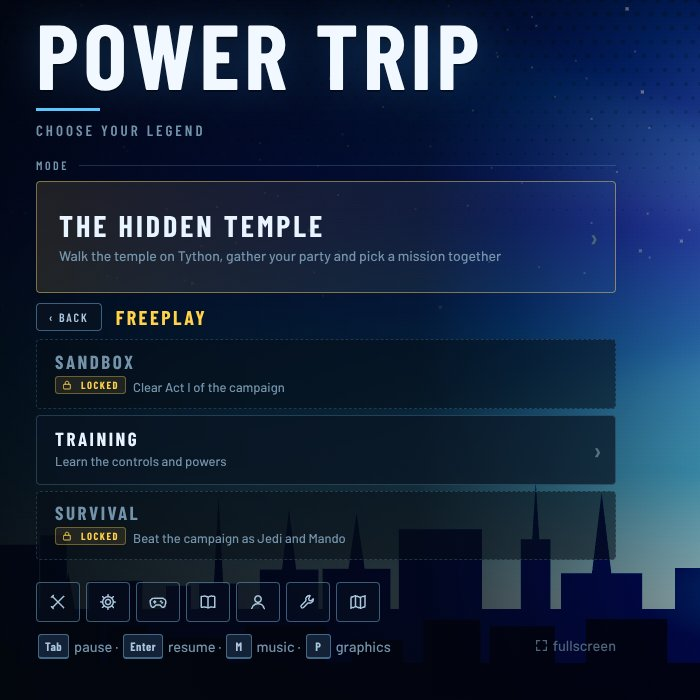
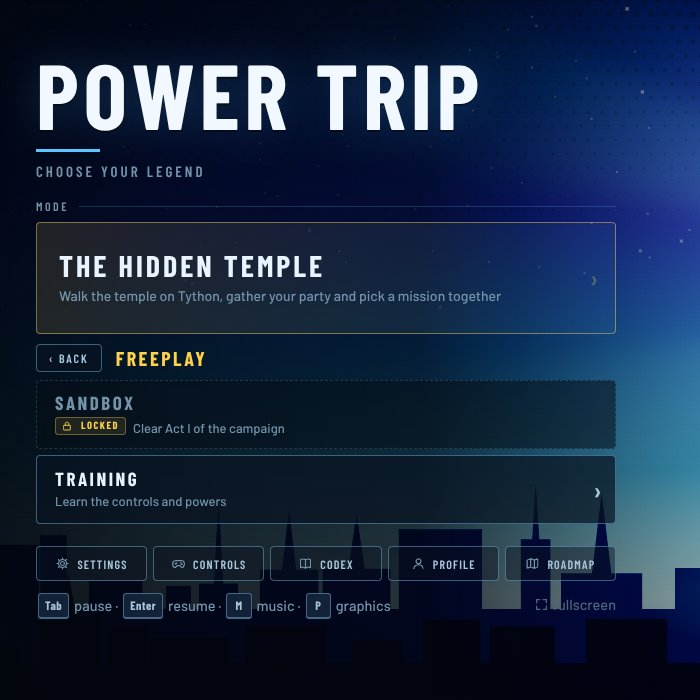
Title screen: STORY, ARCADE, FREEPLAY, ONLINE under the temple; the quiet row named [preview]
ARCADE is its own entry with ARCADE MISSIONS (the Missions page showing only the board of random contracts) and
SURVIVAL; FREEPLAY keeps SANDBOX and TRAINING; the story Missions page drops the arcade shelf. The quiet row on the
title screen is SETTINGS, CONTROLS, CODEX, PROFILE and ROADMAP with an icon beside each name; MASTERY and the
SABER bench leave it (the pause screen, the customizer and the temple still have them).

Claude-Session: https://claude.ai/code/session_01GXE5t33v9AnofAoJem4uvT

diff --git a/src/ui/menus.js b/src/ui/menus.js
@@ -109,25 +109,30 @@ export function showMenuStep(step, group = null){
   if (_ovState === 'menu'){ setOverlayState('menu'); overlay.scrollTop = 0; }   // the headline and BEGIN follow the step
   else refreshPicks();   // (the results screen's CHANGE panel stays where it is)
 }
-/* THE MODE GROUPS — the first step is the temple on top and three groups under it: STORY (campaign, missions),
-   FREEPLAY (sandbox, training, survival) and ONLINE (the co-op tile, which opens its panel). STORY and FREEPLAY swap
-   their short list in for the three; ‹ BACK, Esc or the pad's B closes it again. The hero step's ‹ MODES comes back
+/* THE MODE GROUPS — the first step is the temple on top and four entries under it: STORY (campaign, missions),
+   ARCADE (arcade missions: the Missions page's board of random contracts; survival), FREEPLAY (sandbox, training)
+   and ONLINE (the co-op tile, which opens its panel). The first three swap their short list in for the four; ‹ BACK, Esc or the pad's B closes it again. The hero step's ‹ MODES comes back
    to the list its mode was picked from. */
 let _group = null;
-const GROUP_OF = { campaign: 'story', mission: 'story', sandbox: 'freeplay', training: 'freeplay', endless: 'freeplay' };
+const GROUPS = ['story', 'arcade', 'freeplay'];
+const GROUP_OF = { campaign: 'story', mission: 'story', endless: 'arcade', sandbox: 'freeplay', training: 'freeplay' };
+const groupOf = (m) => m === 'mission' && isArcadeId(G.missionId) ? 'arcade' : GROUP_OF[m];
 export const menuGroup = () => _group;
 function openGroup(g){
-  _group = g === 'story' || g === 'freeplay' ? g : null;
+  _group = GROUPS.includes(g) ? g : null;
   overlay.classList.toggle('mgrp', !!_group);
-  for (const k of ['story', 'freeplay']) overlay.classList.toggle('grp-' + k, _group === k);
+  for (const k of GROUPS) overlay.classList.toggle('grp-' + k, _group === k);
 }
 function refreshGroups(){
-  for (const k of ['story', 'freeplay']) document.getElementById('grp-' + k).classList.toggle('sel', GROUP_OF[G.modeSel] === k);
+  const arc = G.modeSel === 'mission' && isArcadeId(G.missionId);
+  for (const k of GROUPS) document.getElementById('grp-' + k).classList.toggle('sel', groupOf(G.modeSel) === k);
+  document.getElementById('mode-arcade').classList.toggle('sel', arc);
+  document.getElementById('mode-mission').classList.toggle('sel', G.modeSel === 'mission' && !arc);
   // STORY carries where the campaign stands, so a saved run reads from the top level
   const md = document.getElementById('grpStoryMd');
   if (md) md.textContent = canResume() ? 'Continue · ' + resumeProgress() + ' · ' + resumeLabel().replace(/^CHAPTER \d+ · /, '') : 'Campaign and missions';
 }
-for (const k of ['story', 'freeplay']) document.getElementById('grp-' + k).addEventListener('click', (e) => { e.stopPropagation(); audioInit(); openGroup(k); });
+for (const k of GROUPS) document.getElementById('grp-' + k).addEventListener('click', (e) => { e.stopPropagation(); audioInit(); openGroup(k); });
 for (const b of document.querySelectorAll('.msub-back')) b.addEventListener('click', (e) => { e.stopPropagation(); audioInit(); openGroup(null); });
 // Esc (the pad's B) closes an open group first. Capture phase, registered ahead of the CHANGE panel's own Esc below
 window.addEventListener('keydown', (e) => {
@@ -135,8 +140,8 @@ window.addEventListener('keydown', (e) => {
   if (/\b(customizing|mpage|confirming|newconfirming|asktrain)\b/.test(overlay.className)) return;
   e.stopImmediatePropagation(); openGroup(null);
 }, true);
-/* the quiet row's buttons (settings, controls, codex...) wear an icon on the title screen, their name a tip over it
-   (styles/menus.css); the pause screen keeps their words */
+/* the quiet row's buttons (settings, controls, codex, profile, roadmap) wear an icon beside their name on the title
+   screen (styles/menus.css); the pause screen keeps just the words */
 const BTN_ICON = { formsBtn: 'sabers', settoggle: 'gear', ctltoggle: 'pad', cxtoggle: 'book', pfBtn: 'user', wbBtn: 'wrench', rmtoggle: 'map' };
 function setBtnLabel(el, text){ const l = el.querySelector('.bl'); if (l) l.textContent = text; else el.textContent = text; }
 for (const id in BTN_ICON){
@@ -151,7 +156,7 @@ export function setOverlayState(state){
   if (state === 'victory' && _endPick === null) _endPick = pickKey();   // a fresh results screen: what was just played
   if (state !== 'victory'){ _endPick = null; overlay.classList.remove('vpicking'); }
   _ovState = state;
-  hubWords();
+  hubWords(); refreshGroups();
   overlay.classList.remove('st-menu', 'st-pause', 'st-dead', 'st-victory', 'confirming', 'newconfirming');
   overlay.classList.add('st-' + state);
   document.body.classList.toggle('in-menu', state === 'menu');
@@ -308,18 +313,20 @@ function pickUpSavedRun(){
   followHero();
   refreshCampaignMark(); refreshMissionMark(); refreshNextRun();
 }
-document.getElementById('mode-mission').addEventListener('click', (e) => { e.stopPropagation(); audioInit(); setModeSel('mission'); openMissionPage(); });   // its own page: ui/missions-ui.js
+document.getElementById('mode-mission').addEventListener('click', (e) => { e.stopPropagation(); audioInit(); setModeSel('mission'); openMissionPage(false); refreshGroups(); });   // its own page: ui/missions-ui.js
+// ARCADE: the same page with only the board of random contracts
+document.getElementById('mode-arcade').addEventListener('click', (e) => { e.stopPropagation(); audioInit(); setModeSel('mission'); openMissionPage(true); refreshGroups(); });
 // back to the modes: the ‹ MODES button, Esc, or the pad's B (engine/gamepad.js). Runs in the capture phase so it sees the
 // screen before Esc closes the customizer or a panel on top of it (then that Esc is theirs, not a step back)
 document.getElementById('vchange').addEventListener('click', (e) => { e.stopPropagation(); audioInit(); setPicking(!overlay.classList.contains('vpicking')); });
-document.getElementById('stepBack').addEventListener('click', (e) => { e.stopPropagation(); audioInit(); showMenuStep('mode', GROUP_OF[G.modeSel]); });
+document.getElementById('stepBack').addEventListener('click', (e) => { e.stopPropagation(); audioInit(); showMenuStep('mode', groupOf(G.modeSel)); });
 window.addEventListener('keydown', (e) => {
   const picking = _ovState === 'victory' && overlay.classList.contains('vpicking');
   // the results screen's CHANGE panel on its first step: Esc (the pad's B) folds it away again, back to the results
   if (e.key === 'Escape' && picking && _step === 'mode' && overlay.style.display !== 'none' && !panelOpen() && !/\bmpage\b/.test(overlay.className)){ setPicking(false); return; }
   if (e.key !== 'Escape' || _step !== 'hero' || (_ovState !== 'menu' && !picking) || overlay.style.display === 'none' || panelOpen()) return;
   if (/\b(customizing|mpage)\b/.test(overlay.className) || (G.mode !== 'menu' && !picking)) return;
-  showMenuStep('mode', GROUP_OF[G.modeSel]);
+  showMenuStep('mode', groupOf(G.modeSel));
 }, true);
 // the hero step names what the picked hero does, under the three name plates
 { const bio = document.getElementById('herobio'), cards = document.getElementById('heroselect');

diff --git a/src/ui/missions-ui.js b/src/ui/missions-ui.js
@@ -36,8 +36,14 @@ export const missionOpen = (id) => isSideId(id) ? sideOpen(id) : isArcadeId(id) 
 const shown = (id) => isSideId(id) ? !!SIDE_BY_ID[id] : isArcadeId(id) ? !!missionById(id) : MISSIONS[id] && missionForHero(MISSIONS[id], G.hero) && trialSeen(id);
 export const missionPageOpen = () => overlay.classList.contains('mpage');
 
+/* the page has two faces: the title screen's MISSIONS (side missions and the story's acts) and its ARCADE (the board
+   of random contracts alone). _arcade is which one is up; the story face remembers its last pick for when the
+   arcade had the mission */
+let _arcade = false, _lastStory = null;
+export const arcadePageOpen = () => missionPageOpen() && _arcade;
 export function setMission(id){
   if (!shown(id)) id = Object.keys(MISSIONS).find(shown) || 'refuge';
+  if (!isArcadeId(id)){ _lastStory = id; try { localStorage.setItem('sw_mission_story', id); } catch(e){} }
   G.missionId = id; try { localStorage.setItem('sw_mission', id); } catch(e){}
   for (const el of listEl.querySelectorAll('.msn')) el.classList.toggle('sel', el.dataset.mission === id);
   refreshInfo();
@@ -68,7 +74,7 @@ function arcCard(c){
 function arcadeShelf(){
   const board = arcadeBoard(boardSeed), picked = isArcadeId(G.missionId) && !board.some(c => c.id === G.missionId) ? missionById(G.missionId) : null;
   const won = arcadeWins(G.hero);
-  return fold('arcade', isArcadeId(G.missionId), 'mp-arcade', `ARCADE<span class="mp-sub">random missions, no story</span>`, won ? won + ' won' : '',
+  return fold('arcade', true, 'mp-arcade open-always', `ARCADE<span class="mp-sub">random missions, no story</span>`, won ? won + ' won' : '',
     `<div class="mp-arcbtns"><div class="btn" data-arc="shuffle">⟳ SHUFFLE</div><div class="btn" data-arc="surprise">⚄ SURPRISE ME</div></div>
     <div class="mp-grid">${(picked ? [picked, ...board.slice(0, -1)] : board).map(arcCard).join('')}</div>`);
 }
@@ -109,7 +115,7 @@ try { folds = JSON.parse(localStorage.getItem('sw_mp_folds') || '{}') || {}; } c
 const foldKey = (k) => k === 'arcade' ? k : G.hero + ':' + k;
 const isOpen = (k, dflt) => { const v = folds[foldKey(k)]; return v === undefined ? !!dflt : !!v; };
 function fold(key, dflt, cls, title, count, body, extra = ''){
-  const open = isOpen(key, dflt);
+  const open = key === 'arcade' || isOpen(key, dflt);   // (the arcade is a page of its own now: its board is always out)
   return `<div class="mp-sec ${cls}${open ? ' open' : ''}${extra}" data-fold="${key}">
     <div class="mp-fold" role="button" aria-expanded="${open}"><i class="mp-arrow"></i><span class="mp-ft">${title}</span><span class="mp-n">${count}</span></div>
     <div class="mp-body">${body}</div></div>`;
@@ -136,7 +142,8 @@ function render(){
     t.classList.toggle('on', t.dataset.h === G.hero);
   }
   const shelves = missionShelves(G.hero);
-  listEl.innerHTML = arcadeShelf() + sideShelf() + shelves.map((s, si) => {
+  if (_arcade){ listEl.innerHTML = arcadeShelf(); if (!shown(G.missionId)) setMission(G.missionId); else refreshInfo(); return; }
+  listEl.innerHTML = sideShelf() + shelves.map((s, si) => {
     const acts = s.groups.map((g, ai) => {
       const ms = g.missions.filter(m => trialSeen(m.id));
       const open = ms.filter(m => missionOpen(m.id)), won = open.filter(m => missionDone(m.id, G.hero)).length;
@@ -187,15 +194,24 @@ function arcadeInfo(c){
 export function refreshTile(){
   const md = document.querySelector('#mode-mission .md'); if (!md) return;
   const ids = Object.keys(MISSIONS).filter(shown), won = ids.filter(id => missionDone(id, G.hero)).length;
-  md.innerHTML = G.modeSel === 'mission' && missionOpen(G.missionId)
-    ? 'Picked: ' + (isArcadeId(G.missionId) ? 'Arcade · ' : '') + missionTitle(G.missionId).toLowerCase().replace(/(^|\s)\S/g, c => c.toUpperCase()) + ' · <span class="ok">change</span>'
-    : 'Story missions and a random arcade' + (won ? ' · ' + won + '/' + ids.length + ' <span class="ok">✓</span>' : '');
+  const nice = () => missionTitle(G.missionId).toLowerCase().replace(/(^|\s)\S/g, c => c.toUpperCase());
+  const picked = G.modeSel === 'mission' && missionOpen(G.missionId), arc = isArcadeId(G.missionId);
+  md.innerHTML = picked && !arc ? 'Picked: ' + nice() + ' · <span class="ok">change</span>'
+    : 'Story and side missions' + (won ? ' · ' + won + '/' + ids.length + ' <span class="ok">✓</span>' : '');
+  // the title screen's ARCADE entry: the picked contract, else how many this hero has won
+  const amd = document.querySelector('#mode-arcade .md'); if (!amd) return;
+  const aw = arcadeWins(G.hero);
+  amd.innerHTML = picked && arc ? 'Picked: ' + nice() + ' · <span class="ok">change</span>' : 'Random missions, no story, any hero' + (aw ? ' · ' + aw + ' won' : '');
 }
 // every tick and lock after progress changes, or the hero does
 export function refreshMissionMark(){ render(); refreshTile(); }
 
-export function openMissionPage(){
-  overlay.classList.add('mpage');
+// arc: the ARCADE face (left out, it follows the picked mission: a loaded arcade save, a temple station)
+export function openMissionPage(arc = isArcadeId(G.missionId)){
+  _arcade = !!arc;
+  overlay.classList.add('mpage'); overlay.classList.toggle('mp-arc', _arcade);
+  if (_arcade && !isArcadeId(G.missionId)){ const first = arcadeBoard(boardSeed)[0]; if (first) setMission(first.id); }
+  else if (!_arcade && isArcadeId(G.missionId)) setMission(_lastStory || (() => { try { return localStorage.getItem('sw_mission_story'); } catch(e){ return null; } })());
   refreshPicks();   // BEGIN MISSION and the mission's name, not the first step's headline
   render();
   overlay.scrollTop = 0;
@@ -203,7 +219,7 @@ export function openMissionPage(){
 }
 export function closeMissionPage(){
   if (!missionPageOpen()) return;
-  overlay.classList.remove('mpage');
+  overlay.classList.remove('mpage', 'mp-arc');
   refreshPicks();
   refreshTile();
 }
@@ -212,6 +228,7 @@ listEl.addEventListener('click', (e) => {
   const b = e.target.closest('[data-arc]');
   if (b){ e.stopPropagation(); audioInit(); if (b.dataset.arc === 'shuffle') shuffleBoard(); else surprise(); return; }
   const f = e.target.closest('.mp-fold');
+  if (f && f.parentElement.dataset.fold === 'arcade'){ e.stopPropagation(); return; }
   if (f){ e.stopPropagation(); audioInit(); toggleFold(f.parentElement); return; }
   const c = e.target.closest('.msn'); if (!c) return;
   e.stopPropagation(); audioInit(); setMission(c.dataset.mission);

diff --git a/index.html b/index.html
@@ -194,25 +194,30 @@
     <section id="setup" class="camp">
       <div id="modestep">
         <div class="sec-label">MODE</div>
-        <!-- the temple on top, then three groups: STORY and FREEPLAY open a short list in their place (ui/menus.js
-             openGroup), ONLINE is the co-op tile itself and opens its panel -->
+        <!-- the temple on top, then STORY, ARCADE, FREEPLAY and ONLINE: the first three open a short list in their place
+             (ui/menus.js openGroup), ONLINE is the co-op tile and opens its panel -->
         <div id="modeselect">
           <div class="modeopt brk major wide temple" id="mode-temple"><span class="mt">THE HIDDEN TEMPLE</span><span class="md">Walk the temple on Tython, gather your party and pick a mission together</span></div>
           <div class="mgroups">
             <div class="modeopt brk mgroup" id="grp-story" data-grp="story"><span class="mt">STORY</span><span class="md" id="grpStoryMd">Campaign and missions</span></div>
-            <div class="modeopt brk mgroup" id="grp-freeplay" data-grp="freeplay"><span class="mt">FREEPLAY</span><span class="md" id="grpFreeMd">Sandbox, training and survival</span></div>
+            <div class="modeopt brk mgroup" id="grp-arcade" data-grp="arcade"><span class="mt">ARCADE</span><span class="md">Random missions and survival</span></div>
+            <div class="modeopt brk mgroup" id="grp-freeplay" data-grp="freeplay"><span class="mt">FREEPLAY</span><span class="md" id="grpFreeMd">Sandbox and training</span></div>
             <div class="modeopt brk mgroup" id="mode-coop"><span class="mt">ONLINE</span><span class="md">Co-op: play the story with up to 3 friends</span></div>
           </div>
           <div class="msub" id="sub-story" data-grp="story">
             <div class="msub-head"><div class="btn step-back msub-back">‹ BACK</div><span class="msub-t">STORY</span></div>
             <div class="modeopt brk sel" id="mode-campaign"><span class="mt">CAMPAIGN</span><span class="md">13 chapters, three acts</span></div>
-            <div class="modeopt brk" id="mode-mission"><span class="mt">MISSIONS</span><span class="md">Story missions and a random arcade</span></div>
+            <div class="modeopt brk" id="mode-mission"><span class="mt">MISSIONS</span><span class="md">Story and side missions</span></div>
+          </div>
+          <div class="msub" id="sub-arcade" data-grp="arcade">
+            <div class="msub-head"><div class="btn step-back msub-back">‹ BACK</div><span class="msub-t">ARCADE</span></div>
+            <div class="modeopt brk" id="mode-arcade"><span class="mt">ARCADE MISSIONS</span><span class="md">Random missions, no story, any hero</span></div>
+            <div class="modeopt brk" id="mode-endless"><span class="mt">SURVIVAL</span><span class="md">Endless waves, one high score</span></div>
           </div>
           <div class="msub" id="sub-freeplay" data-grp="freeplay">
             <div class="msub-head"><div class="btn step-back msub-back">‹ BACK</div><span class="msub-t">FREEPLAY</span></div>
             <div class="modeopt brk" id="mode-sandbox"><span class="mt">SANDBOX</span><span class="md">Any foe, any power</span></div>
             <div class="modeopt brk" id="mode-training"><span class="mt">TRAINING</span><span class="md">Learn the controls and powers</span></div>
-            <div class="modeopt brk" id="mode-endless"><span class="mt">SURVIVAL</span><span class="md">Endless waves, one high score</span></div>
           </div>
         </div>
       </div>

diff --git a/styles/menus.css b/styles/menus.css
@@ -1346,7 +1346,7 @@ body.wb-open #overlay{background:none}
 .mgroups,.msub{display:flex;flex-direction:column;gap:6px}
 .msub{display:none;animation:rise .2s var(--ease)}
 #overlay.mgrp .mgroups{display:none}
-#overlay.grp-story #sub-story,#overlay.grp-freeplay #sub-freeplay{display:flex}
+#overlay.grp-story #sub-story,#overlay.grp-arcade #sub-arcade,#overlay.grp-freeplay #sub-freeplay{display:flex}
 #overlay:is(.st-menu,.vpicking) #modeselect :is(.mgroups,.msub) .modeopt{min-height:58px;padding:12px 36px 12px 18px}
 #overlay:is(.st-menu,.vpicking) #modeselect :is(.mgroups,.msub) .modeopt .mt{font:700 19px/1 var(--font-display);letter-spacing:2.5px}
 #overlay:is(.st-menu,.vpicking) #modeselect :is(.mgroups,.msub) .modeopt .md{margin-top:5px}
@@ -1356,13 +1356,18 @@ body.wb-open #overlay{background:none}
 .msub-head{display:flex;align-items:center;gap:14px;margin-bottom:2px}
 .msub-head .msub-back{padding:7px 12px;font-size:12px;letter-spacing:2px;background:rgba(8,18,33,.7)}
 .msub-t{font:700 20px/1 var(--font-display);letter-spacing:2.5px;color:var(--gold)}
-/* the quiet row on the title screen: icons, each one's name a tip over it (the pause screen keeps the words) */
+/* the quiet row on the title screen: SETTINGS, CONTROLS, CODEX, PROFILE and ROADMAP, each with an icon beside its name.
+   MASTERY and the SABER bench stay off it (the pause screen, the forms page, the customizer and the temple have them) */
 .btn .bi{display:none}
-#overlay.st-menu .ov-actions .btn.btn.icbtn.icbtn:not(.go){position:relative;flex:0 0 auto;width:44px;height:40px;padding:0;display:inline-flex;align-items:center;justify-content:center}
-#overlay.st-menu .ov-actions .btn.icbtn .bi{display:block;font-size:20px;color:var(--ink-soft)}
-#overlay.st-menu .ov-actions .btn.icbtn:hover .bi,#overlay.st-menu .ov-actions .btn.icbtn.padfocus .bi{color:var(--ink)}
-#overlay.st-menu .ov-actions .btn.icbtn .bl{position:absolute;bottom:calc(100% + 7px);left:50%;transform:translate(-50%,3px);padding:5px 8px;border-radius:4px;
-  background:rgba(4,9,18,.95);border:1px solid var(--edge-mid);font:600 11px/1 var(--font-ui);letter-spacing:1.5px;color:var(--ink);white-space:nowrap;
-  opacity:0;pointer-events:none;transition:opacity .12s,transform .12s;z-index:2}
-#overlay.st-menu .ov-actions .btn.icbtn:is(:hover,:focus-visible,.padfocus) .bl{opacity:1;transform:translate(-50%,0)}
-#overlay.st-menu .ov-actions .btn.icbtn :is(.cx-badge,.pf-badge){position:absolute;top:-6px;right:-6px;margin:0}
+#overlay.st-menu #formsBtn,#overlay.st-menu #wbBtn{display:none!important}
+#overlay.st-menu .ov-actions .btn.btn.icbtn.icbtn:not(.go){flex:1 1 0;gap:7px;padding:9px 6px}
+#overlay.st-menu .ov-actions .btn.icbtn .bi{display:block;font-size:15px;color:var(--ink-dim)}
+#overlay.st-menu .ov-actions .btn.icbtn:is(:hover,.padfocus) .bi{color:var(--ink)}
+#overlay.st-menu .ov-actions .btn.icbtn :is(.cx-badge,.pf-badge){margin-left:0}
+@media (max-width:520px){   /* a phone: the five names without their icons, three and two */
+  #overlay.st-menu .ov-actions .btn.btn.icbtn.icbtn:not(.go){flex:1 1 30%;letter-spacing:1px}
+  #overlay.st-menu .ov-actions .btn.icbtn .bi{display:none}
+}
+/* the arcade face of the Missions page: only its board, always out */
+.mp-arcade.open-always>.mp-fold{cursor:default}
+.mp-arcade.open-always>.mp-fold .mp-arrow{display:none}
